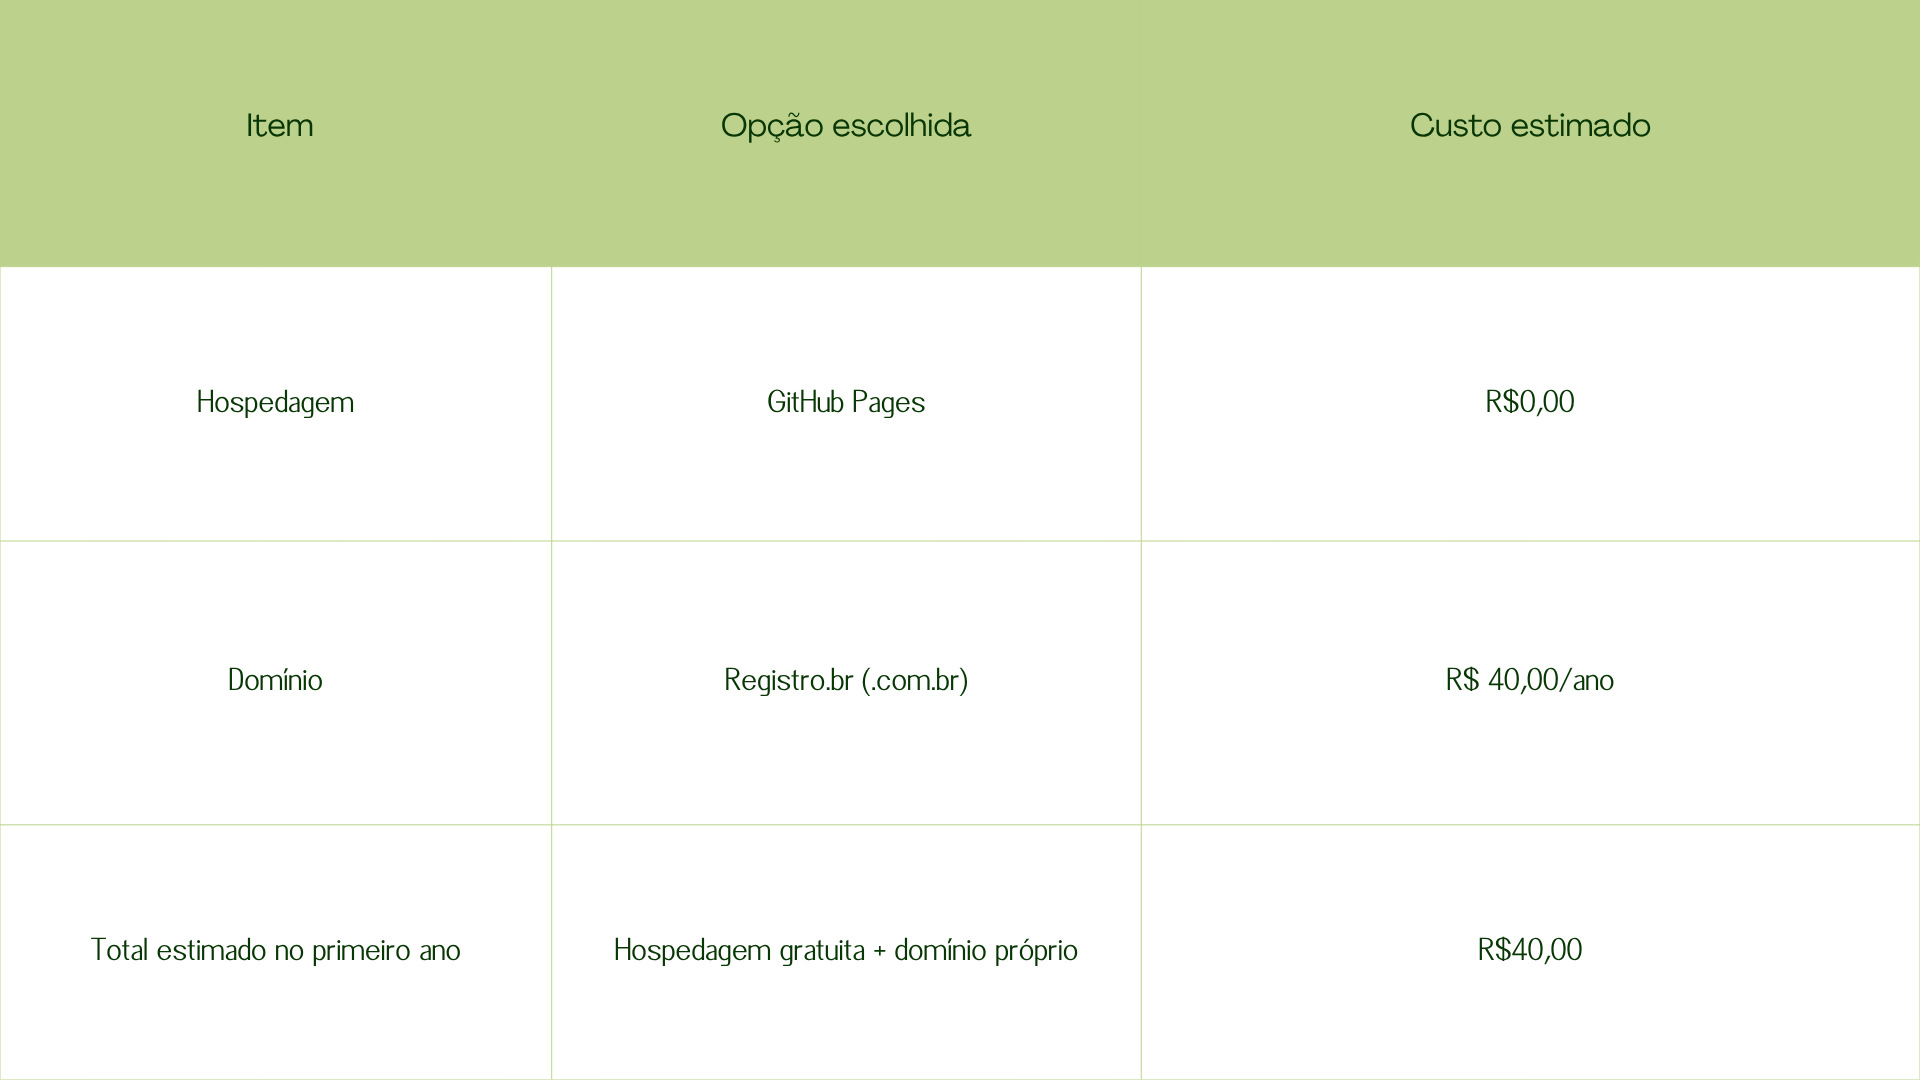
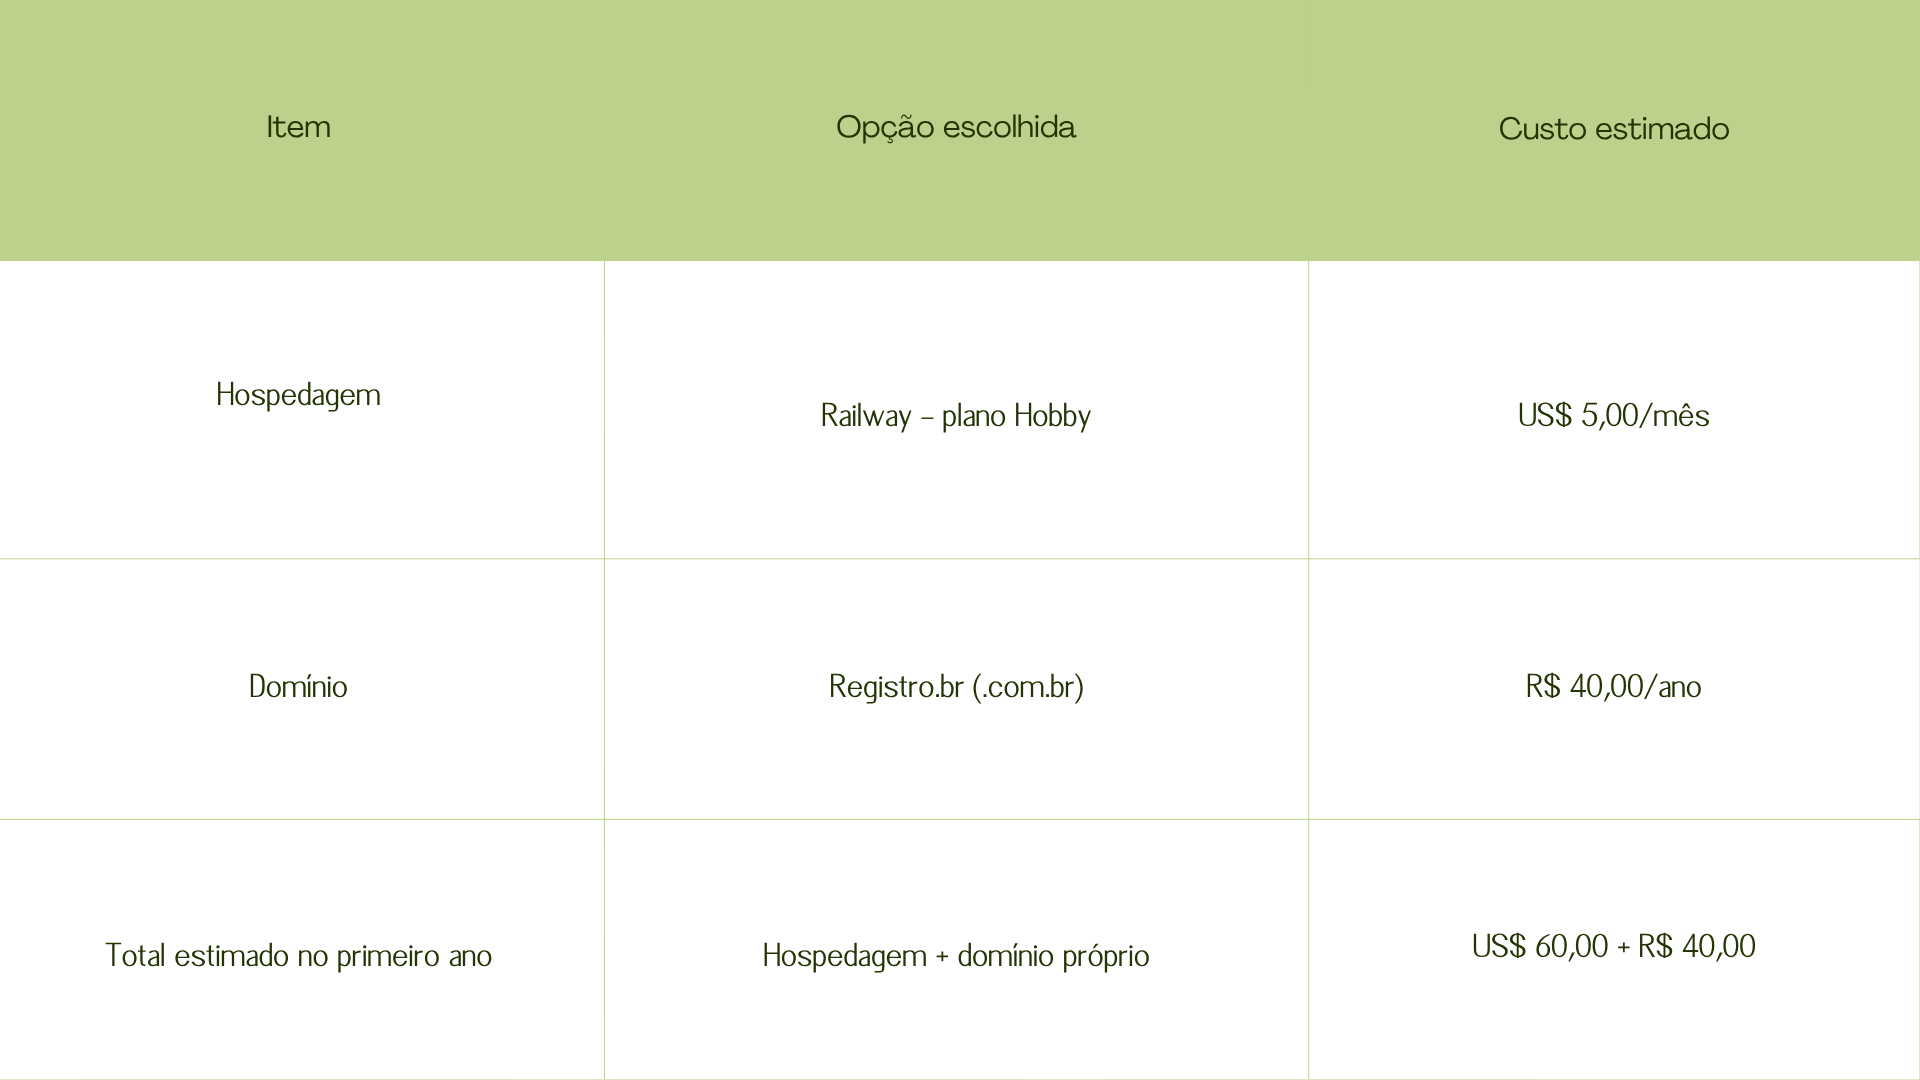
atualizações

diff --git a/curiosidades.html b/curiosidades.html
@@ -25,6 +25,7 @@
                 <li><a href="curiosidades.html" class="ativo">Curiosidades</a></li>
                 <li><a href="guias.html">Guias</a></li>
                 <li><a href="localizacao.html">Locais</a></li>
+                <li><a href="contato.html">Saiba mais</a></li>
                 <li><a href="orçamento.html">Orçamento</a></li>
             </ul>
             <div class="indicador"></div>

diff --git a/guias.html b/guias.html
@@ -26,6 +26,7 @@
                 <li><a href="curiosidades.html">Curiosidades</a></li>
                 <li><a href="guias.html" class="ativo">Guias</a></li>
                 <li><a href="localizacao.html">Locais</a></li>
+                <li><a href="contato.html">Saiba mais</a></li>
                 <li><a href="orçamento.html">Orçamento</a></li>
             </ul>
             <div class="indicador"></div>

diff --git a/localizacao.html b/localizacao.html
@@ -25,6 +25,7 @@
                 <li><a href="curiosidades.html">Curiosidades</a></li>
                 <li><a href="guias.html">Guias</a></li>
                 <li><a href="localizacao.html" class="ativo">Locais</a></li>
+                <li><a href="contato.html">Saiba mais</a></li>
                 <li><a href="orçamento.html">Orçamento</a></li>
             </ul>
             <div class="indicador"></div>

diff --git a/orçamento.html b/orçamento.html
@@ -25,6 +25,7 @@
                 <li><a href="curiosidades.html">Curiosidades</a></li>
                 <li><a href="guias.html">Guias</a></li>
                 <li><a href="localizacao.html">Locais</a></li>
+                <li><a href="contato.html">Saiba mais</a></li>
                 <li><a href="orçamento.html" >Orçamento</a></li>
             </ul>
             <div class="indicador"></div>

diff --git a/home.html b/home.html
@@ -24,6 +24,7 @@
                 <li><a href="curiosidades.html">Curiosidades</a></li>
                 <li><a href="guias.html">Guias</a></li>
                 <li><a href="localizacao.html">Locais</a></li>
+                <li><a href="contato.html">Saiba mais</a></li>
                 <li><a href="orçamento.html">Orçamento</a></li>
             </ul>
             <div class="indicador"></div>

diff --git a/impacto.html b/impacto.html
@@ -25,6 +25,7 @@
                 <li><a href="curiosidades.html">Curiosidades</a></li>
                 <li><a href="guias.html">Guias</a></li>
                 <li><a href="localizacao.html">Locais</a></li>
+                <li><a href="contato.html">Saiba mais</a></li>
                 <li><a href="orçamento.html">Orçamento</a></li>
             </ul>
             <div class="indicador"></div>

diff --git a/noticias.html b/noticias.html
@@ -25,6 +25,7 @@
                 <li><a href="curiosidades.html">Curiosidades</a></li>
                 <li><a href="guias.html">Guias</a></li>
                 <li><a href="localizacao.html">Locais</a></li>
+                <li><a href="contato.html">Saiba mais</a></li>
                 <li><a href="orçamento.html">Orçamento</a></li>
             </ul>
             <div class="indicador"></div>

diff --git a/projetos.html b/projetos.html
@@ -24,6 +24,7 @@
                 <li><a href="curiosidades.html">Curiosidades</a></li>
                 <li><a href="guias.html">Guias</a></li>
                 <li><a href="localizacao.html">Locais</a></li>
+                <li><a href="contato.html">Saiba mais</a></li>
                 <li><a href="orçamento.html">Orçamento</a></li>
             </ul>
             <div class="indicador"></div>

diff --git a/sobre.html b/sobre.html
@@ -25,6 +25,7 @@
                 <li><a href="curiosidades.html">Curiosidades</a></li>
                 <li><a href="guias.html">Guias</a></li>
                 <li><a href="localizacao.html">Locais</a></li>
+                <li><a href="contato.html">Saiba mais</a></li>
                 <li><a href="orçamento.html">Orçamento</a></li>
             </ul>
             <div class="indicador"></div>
